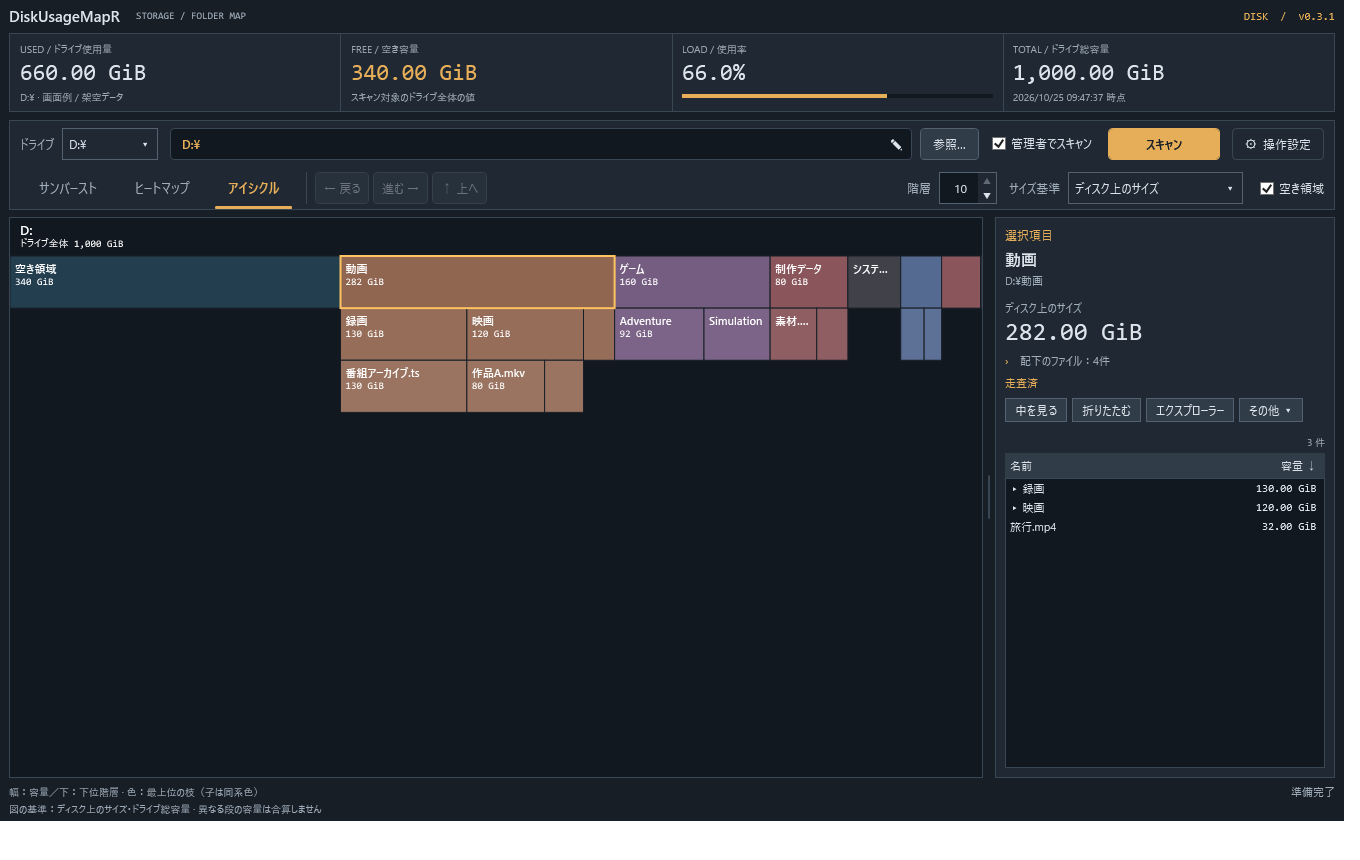
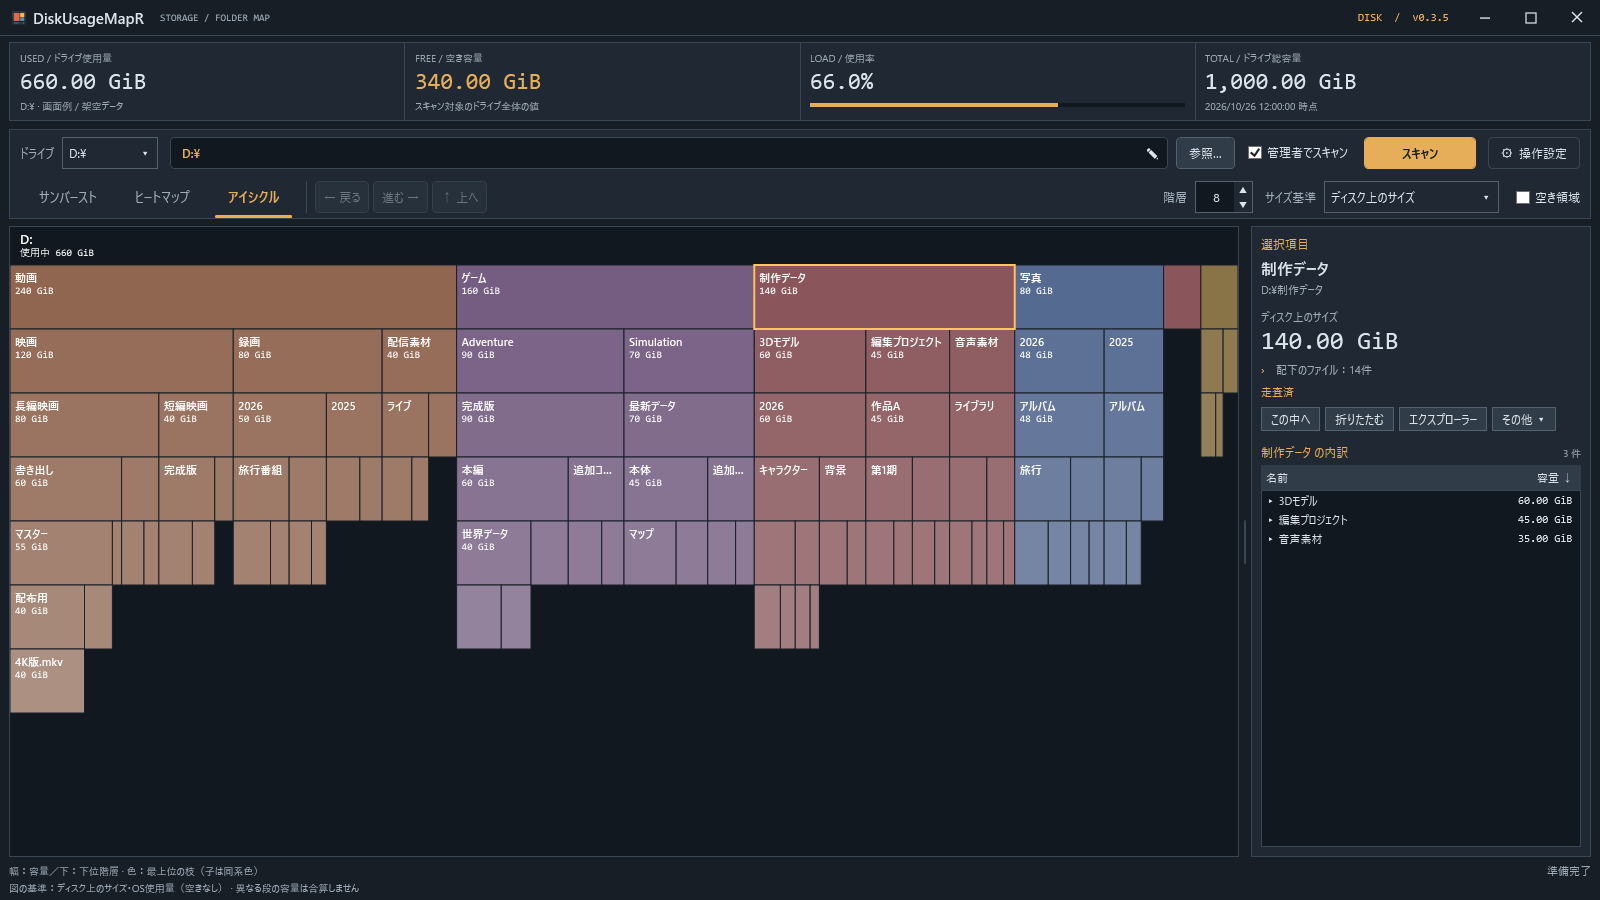
Publish DiskUsageMapR v0.3.5 materials

diff --git a/manual.html b/manual.html
@@ -12,7 +12,7 @@
 <body><main>
 <header>
 <h1>DiskUsageMapR 使い方</h1>
-<p class="muted">v0.3.4 · Windows 11 x64 · .NET 10 Desktop Runtime x64が必要です。実行環境は同梱していません。</p>
+<p class="muted">v0.3.5 · Windows 11 x64 · .NET 10 Desktop Runtime x64が必要です。実行環境は同梱していません。</p>
 </header>
 <section id="start">
 <h2>まずは4ステップ</h2>
@@ -27,6 +27,7 @@
 <nav aria-label="目次"><a href="#operations">基本操作</a><a href="#delete">削除</a><a href="#help">困ったとき</a><a href="#more">容量・対応範囲・設定</a></nav>
 <section id="operations">
 <h2>基本操作</h2>
+<p>最上部のアプリ名がある帯をドラッグするとウィンドウを移動できます。帯の空き部分をダブルクリックすると最大化／元に戻す、右クリックするとウィンドウメニューを開きます。右端のボタンでも最小化・最大化／元に戻す・終了を操作できます。</p>
 <p>操作欄は2行です。上段でドライブ・アドレス兼パンくず・スキャンを操作し、下段は左からサンバースト／ヒートマップ／アイシクルの表示タブ、その右隣に［戻る］［進む］［上へ］、右側に階層数と表示条件をまとめています。初回起動はサンバーストで、空き領域はOFFです。保存済みの設定があればそちらを使います。ダブルクリック動作は上段右の［操作設定］から変更できます。</p>
 <table>
 <thead><tr><th scope="col">やりたいこと</th><th scope="col">操作</th></tr></thead>
@@ -104,5 +105,5 @@
 <p>空き表示・容量基準・ダブルクリックの動作・表示方式・表示階層は、EXE横の <code>DiskUsageMapR.settings.json</code> に保存します。旧版と同じフォルダーに <code>DiskHeatMap.settings.json</code> があり、新しい設定ファイルがまだない場合は、起動時に設定を引き継ぎます。旧ファイルは残します。別フォルダーに展開した場合は、旧設定ファイルを新しいEXEの隣へコピーしてから起動してください。保存できなかった場合は画面下に通知します。書き込める場所に置いて使ってください。</p>
 </details>
 </section>
-<footer>DiskUsageMapR v0.3.4 · このHTMLは、保存したファイルを直接開いてオフラインで読めます。</footer>
+<footer>DiskUsageMapR v0.3.5 · このHTMLは、保存したファイルを直接開いてオフラインで読めます。</footer>
 </main></body></html>

diff --git a/README.md b/README.md
@@ -4,15 +4,15 @@
 
 **[最新版をダウンロード](https://github.com/mezon-web/DiskUsageMapR-Releases/releases/latest)**
 
-![DiskUsageMapRのサンバースト画面例。動画フォルダーを選ぶと、右に動画の内訳が表示されます。](images/sunburst.png)
+![DiskUsageMapRのサンバースト画面例。制作データを選ぶと、右にその内訳が表示されます。](images/sunburst.png)
 
 画面はすべて架空データです。
 
 ## 使い始める
 
 1. Windows 11 x64で、**.NET 10 Desktop Runtime x64**を用意します。[Microsoftのダウンロードページ](https://dotnet.microsoft.com/ja-jp/download/dotnet/10.0) の「.NET Desktop Runtime」を選んでください。
-2. [Releases](https://github.com/mezon-web/DiskUsageMapR-Releases/releases) の `DiskUsageMapR-v0.3.4.zip` をダウンロードして展開します。
-3. 展開された `DiskUsageMapR-v0.3.4` フォルダー内の `DiskUsageMapR.exe` を起動し、フォルダーやドライブを選んで「スキャン」。エクスプローラーからフォルダーまたはドライブ1件をドロップしても開始できます。
+2. [Releases](https://github.com/mezon-web/DiskUsageMapR-Releases/releases) の `DiskUsageMapR-v0.3.5.zip` をダウンロードして展開します。
+3. 展開された `DiskUsageMapR-v0.3.5` フォルダー内の `DiskUsageMapR.exe` を起動し、フォルダーやドライブを選んで「スキャン」。エクスプローラーからフォルダーまたはドライブ1件をドロップしても開始できます。
 
 ランタイム非同梱の単一EXEです。ZIPにはEXEと日本語の「使い方.html」が入っています。使い方は、基本の4ステップから読める一列のHTMLです。[使い方HTMLを単体で保存](https://github.com/mezon-web/DiskUsageMapR-Releases/raw/refs/heads/main/manual.html)して、オフラインでも読めます。インストーラーや常駐サービスはありません。
 
@@ -39,6 +39,10 @@
 
 スキャンはメタデータを調べ、読めない場所・未走査・リンクの除外を区別します。管理者でも全項目を読めるとは限りません。スキャン後の外部変更は、再スキャンで取得します。HDDや別PCでの速度改善率は未検証です。
 
+## v0.3.5の改善
+
+アプリ名の帯をタイトルバーに統合し、アイコンと最小化・最大化・閉じるボタンを一段にまとめました。帯の空き部分をドラッグして移動でき、ダブルクリックで最大化と元に戻す操作ができます。
+
 ## v0.3.4の改善
 
 計測中にサンバースト／アイシクルの外側の項目を選んでも、右の内訳一覧が選択に追従します。システム・未分類の内訳や、完了後に引き継ぐファイル選択も整えました。計測中の小項目の操作、階層移動の案内、容量基準切替後の一覧選択も改善しています。
@@ -58,7 +62,9 @@
 アイシクルとサンバーストを追加しました。操作欄は2行にまとめ、上段にアドレス兼パンくず、下段に表示タブ・戻る／進む・階層数を配置しています。検索機能は削除しました。階層数とダブルクリック動作は方式ごとに設定できます。
 
 <details>
-<summary>アイシクルとサンバーストの画面例</summary>
+<summary>3つの表示方式の画面例</summary>
+
+![架空データのヒートマップ。制作データを分割して表示しています。](images/heatmap.png)
 
 ![架空データのアイシクル。横幅が容量、下ほど下位階層です。](images/icicle.png)
 
@@ -106,4 +112,4 @@ OneDrive実環境では読み取り専用のスキャンを確認しています
 - **`DiskUsageMapR-vX.Y.Z.zip.sha256.txt`** は、そのZIP専用のSHA-256です。照合方法は [DOWNLOAD.md](DOWNLOAD.md) を参照してください。
 - GitHubが自動生成する **「Source code (zip)」「Source code (tar.gz)」は、この公開資料リポジトリの内容**です。アプリ本体やアプリのソースコードではありません。
 
-[変更履歴](CHANGELOG.md) · [v0.3.4の公開内容](RELEASE.md)
+[変更履歴](CHANGELOG.md) · [v0.3.5の公開内容](RELEASE.md)

diff --git a/DOWNLOAD.md b/DOWNLOAD.md
@@ -2,20 +2,20 @@
 
 [GitHub Releases](https://github.com/mezon-web/DiskUsageMapR-Releases/releases/latest) から、同じ版の以下2ファイルをダウンロードしてください。
 
-- `DiskUsageMapR-v0.3.4.zip`
-- `DiskUsageMapR-v0.3.4.zip.sha256.txt`
+- `DiskUsageMapR-v0.3.5.zip`
+- `DiskUsageMapR-v0.3.5.zip.sha256.txt`
 
 PowerShellでZIPのSHA-256を計算します。
 
 ```powershell
-Get-FileHash -LiteralPath .\DiskUsageMapR-v0.3.4.zip -Algorithm SHA256
-Get-Content -LiteralPath .\DiskUsageMapR-v0.3.4.zip.sha256.txt
+Get-FileHash -LiteralPath .\DiskUsageMapR-v0.3.5.zip -Algorithm SHA256
+Get-Content -LiteralPath .\DiskUsageMapR-v0.3.5.zip.sha256.txt
 ```
 
-両方の64桁の値が一致することを確認してください。大文字・小文字の違いは問題ありません。ZIPを展開し、`DiskUsageMapR-v0.3.4` フォルダ内の `DiskUsageMapR.exe` を起動します。同梱する使い方は `使い方.html` の1つです。[使い方HTMLを単体で保存](https://github.com/mezon-web/DiskUsageMapR-Releases/raw/refs/heads/main/manual.html)することもできます。
+両方の64桁の値が一致することを確認してください。大文字・小文字の違いは問題ありません。ZIPを展開し、`DiskUsageMapR-v0.3.5` フォルダ内の `DiskUsageMapR.exe` を起動します。同梱する使い方は `使い方.html` の1つです。[使い方HTMLを単体で保存](https://github.com/mezon-web/DiskUsageMapR-Releases/raw/refs/heads/main/manual.html)することもできます。
 
 必要環境はWindows 11 x64と.NET 10 **Desktop** Runtime x64です。ランタイムは同梱していません。Microsoftの [公式ページ](https://dotnet.microsoft.com/ja-jp/download/dotnet/10.0) から入手できます。
 
 設定はEXE隣の `DiskUsageMapR.settings.json` へ保存します。旧版の `DiskHeatMap.settings.json` が同じフォルダーにあり、新設定がまだなければ初回起動時に引き継ぎます。旧ファイルは残ります。別のフォルダーへ展開する場合は、旧設定ファイルを新EXEの隣へコピーしてから起動してください。
 
-GitHubの「Source code」リンクは公開資料のアーカイブです。アプリのダウンロードには上記の `DiskUsageMapR-v0.3.4.zip` を選んでください。
+GitHubの「Source code」リンクは公開資料のアーカイブです。アプリのダウンロードには上記の `DiskUsageMapR-v0.3.5.zip` を選んでください。

diff --git a/RELEASE.md b/RELEASE.md
@@ -1,16 +1,15 @@
-# DiskUsageMapR v0.3.4
+# DiskUsageMapR v0.3.5
 
-2026-10-26 公開。計測中の図と右の内訳一覧の連動を改善しました。
+2026-10-26 公開。アプリの上部を、アイコンと操作ボタン付きの一段のタイトルバーにまとめました。
 
 ## 今回の更新
 
-- 計測中にサンバースト／アイシクルの外側の項目を選ぶと、右の一覧に選択したフォルダー、またはファイルの親フォルダーの内訳を表示します。
-- 「システム・未分類」の内訳と、計測が完了したときの選択の引き継ぎを改善しました。
-- 計測中の小項目の操作、階層移動時の案内、容量基準切替後の一覧選択を改善しました。
-- ネットワーク上の削除で中止や結果不明の状態をわかりやすくしました。
+- アプリ名の帯にアイコン、版表示、最小化・最大化／元に戻す・閉じるボタンを配置しました。帯の空き部分はドラッグで移動、ダブルクリックで最大化／元に戻す操作ができます。
+- ヒートマップ・アイシクル・サンバーストの画面例を更新しました。画像は架空データです。
+- v0.3.4で改善した計測中の選択と右の内訳一覧の連動を引き継いでいます。
 
 ## ダウンロード
 
-Windows 11 x64 と .NET 10 Desktop Runtime x64 が必要です。`DiskUsageMapR-v0.3.4.zip` を展開して `DiskUsageMapR.exe` を起動してください。ZIPには日本語の `使い方.html` も入っています。照合方法は [DOWNLOAD.md](DOWNLOAD.md) を参照してください。
+Windows 11 x64 と .NET 10 Desktop Runtime x64 が必要です。`DiskUsageMapR-v0.3.5.zip` を展開して `DiskUsageMapR.exe` を起動してください。ZIPには日本語の `使い方.html` も入っています。照合方法は [DOWNLOAD.md](DOWNLOAD.md) を参照してください。
 
 GitHubの「Source code」はこの公開資料リポジトリの内容です。アプリ本体はRelease AssetsのZIPをダウンロードしてください。

diff --git a/CHANGELOG.md b/CHANGELOG.md
@@ -1,5 +1,11 @@
 # 変更履歴
 
+## v0.3.5 — 2026-10-26
+
+- アプリのヘッダーとタイトルバーを統合し、アイコン・版表示・最小化／最大化／閉じるボタンを一段に配置。
+- タイトルバーのドラッグ移動・ダブルクリック・ウィンドウメニューと、端からのサイズ変更に対応。
+- 架空データのヒートマップ・アイシクル・サンバーストの画面例を更新。
+
 ## v0.3.4 — 2026-10-26
 
 - 計測中、サンバースト／アイシクルの外側の項目を選ぶと、右の内訳一覧と選択行が連動するように修正。
